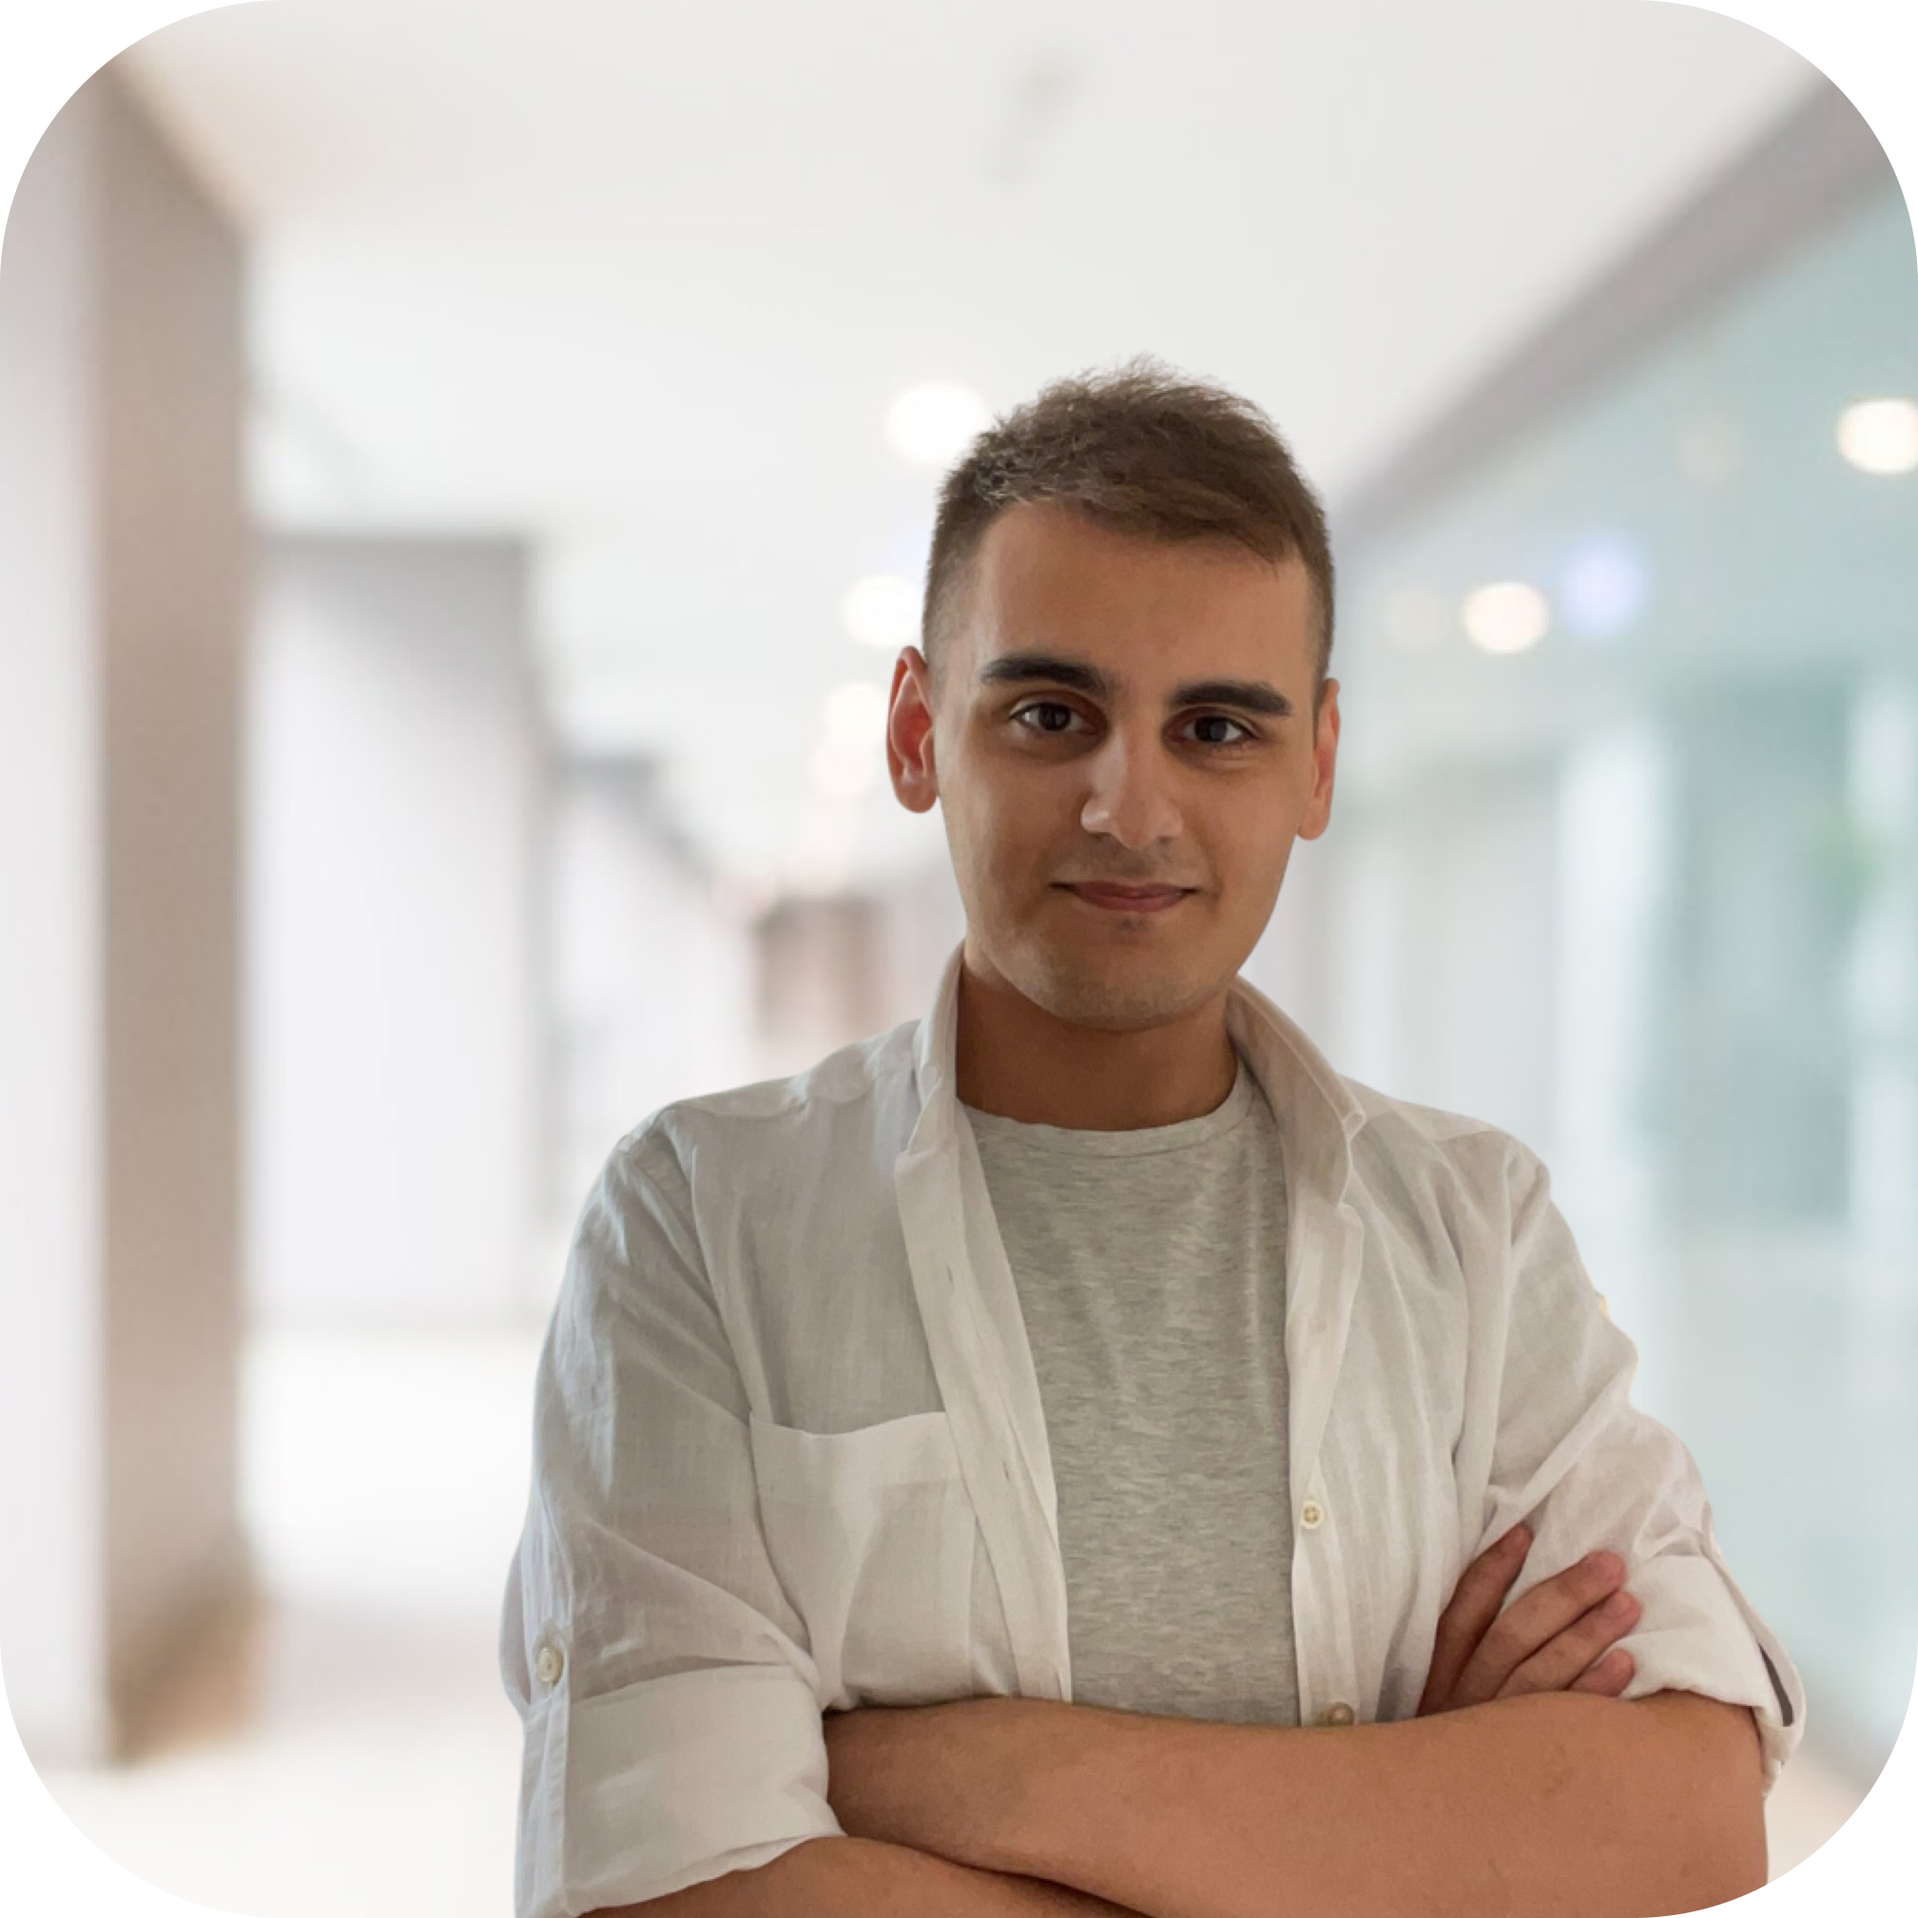
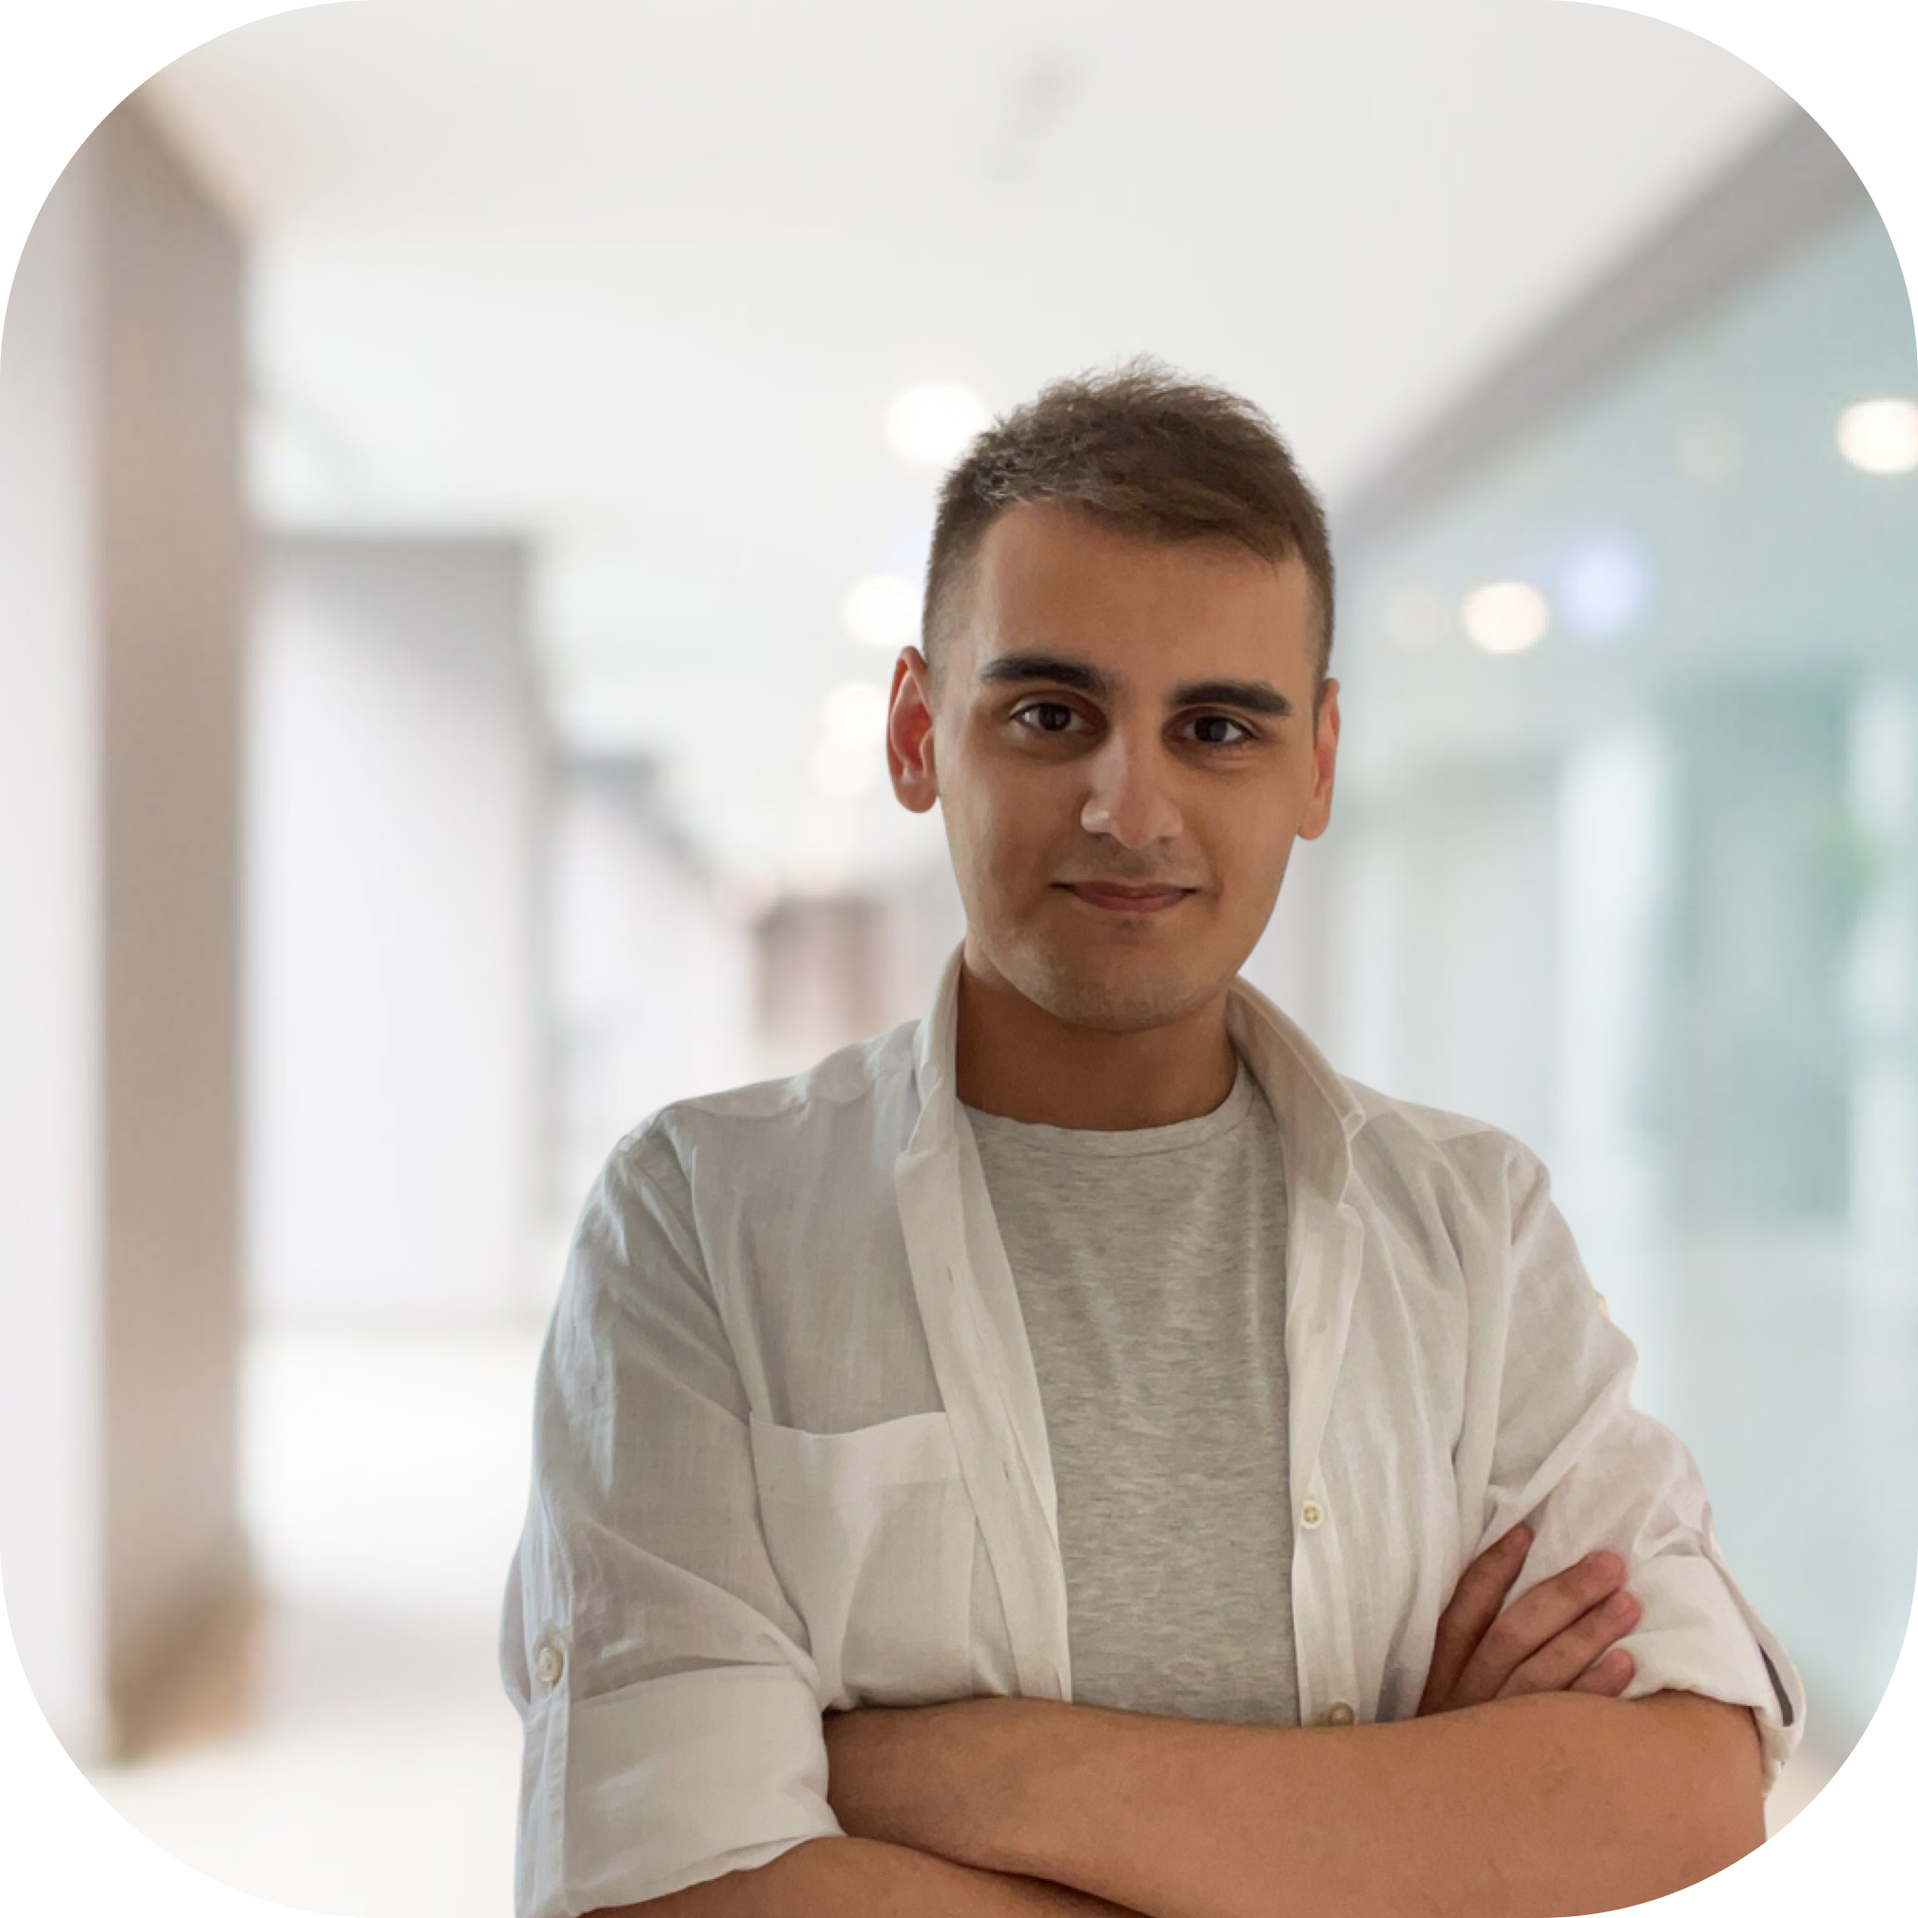
pp

diff --git a/index.html b/index.html
@@ -45,7 +45,7 @@
           <img src="./assets/images/profile.png" alt="Tim Sarkisiani" width="80">
         </figure> -->
 
-        <img src="./assets/images/profile.png" alt="Tim Sarkisiani" width="160">
+        <img src="./assets/images/profile.png" alt="Tim Sarkisiani" width="145">
 
         <div class="info-content">
           <h1 class="name" title="Tim Sarkisiani">Tim Sarkisiani</h1>
